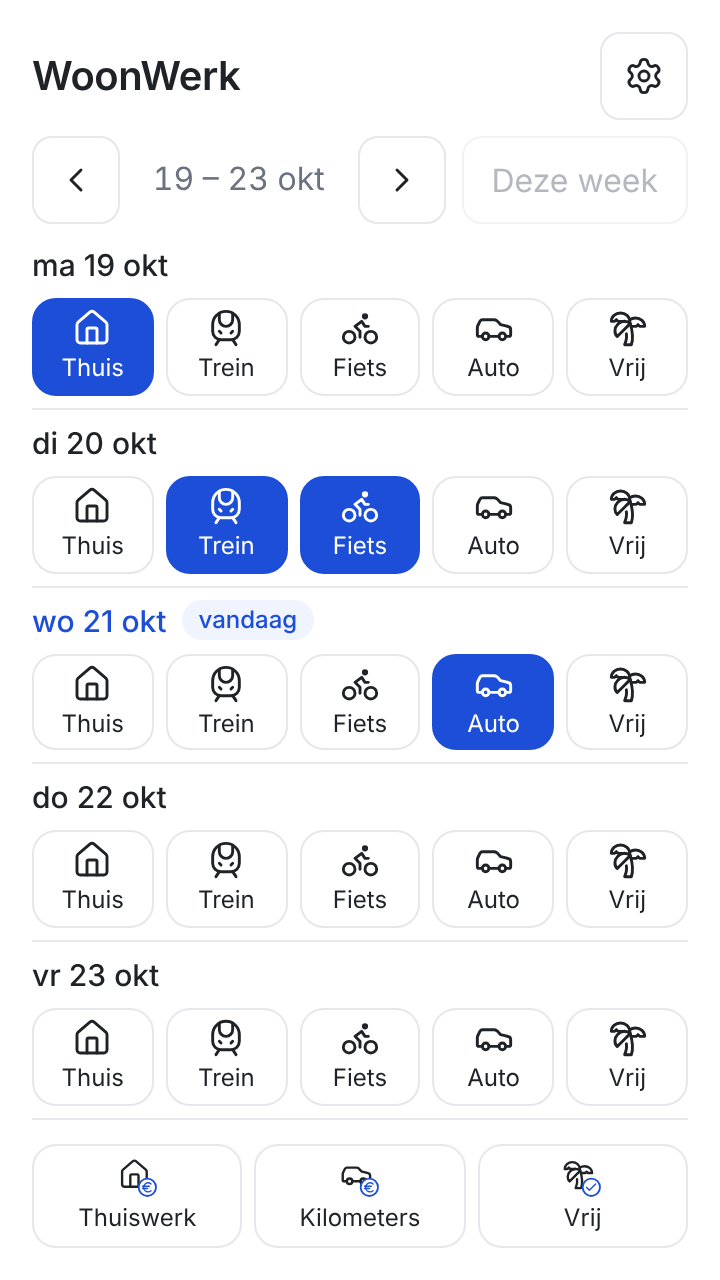
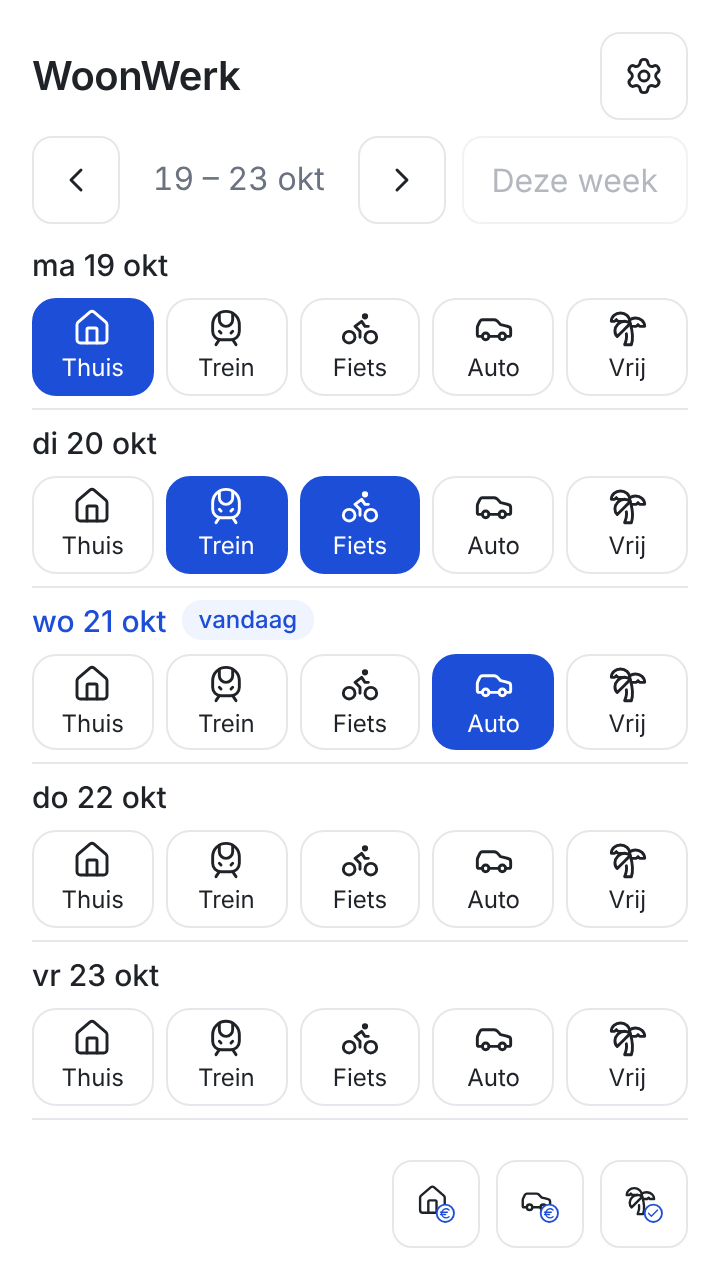
Overzichtsknoppen onderaan als iconknoppen zonder tekst, rechts uitgelijnd
Claude-Session: https://claude.ai/code/session_01UzDWWvbszkEX6CBYu3XqNS

diff --git a/src/App.tsx b/src/App.tsx
@@ -17,9 +17,9 @@ import {
 } from './storage'
 
 const OVERVIEWS = {
-  thuis: { title: 'Overzicht thuiswerkvergoeding', short: 'Thuiswerk' },
-  auto: { title: 'Overzicht kilometervergoeding', short: 'Kilometers' },
-  vrij: { title: 'Overzicht vrije dagen', short: 'Vrij' },
+  thuis: { title: 'Overzicht thuiswerkvergoeding' },
+  auto: { title: 'Overzicht kilometervergoeding' },
+  vrij: { title: 'Overzicht vrije dagen' },
 } as const
 
 const SWIPE_MIN_DISTANCE = 50
@@ -217,11 +217,10 @@ export default function App() {
         )}
         <nav className="overview-bar" aria-label="Overzichten">
           {overviewModes.map((mode) => {
-            const { title, short } = OVERVIEWS[mode]
+            const { title } = OVERVIEWS[mode]
             return (
-              <button key={mode} type="button" className="overview-button" aria-label={title} onClick={() => setScreen(mode)}>
+              <button key={mode} type="button" className="icon-button" aria-label={title} onClick={() => setScreen(mode)}>
                 <BadgeIcon Icon={MODE_INFO[mode].Icon} Badge={mode === 'vrij' ? Check : undefined} />
-                <span>{short}</span>
               </button>
             )
           })}

diff --git a/src/index.css b/src/index.css
@@ -182,7 +182,6 @@ h1 {
   .mode:not(.selected):hover,
   .icon-button:hover,
   .today-button:not(:disabled):hover,
-  .overview-button:hover,
   .wide-button:hover {
     border-color: #c7cbd1;
   }
@@ -338,23 +337,10 @@ h1.wrap {
 }
 
 .overview-bar {
-  display: grid;
-  grid-auto-flow: column;
-  grid-auto-columns: minmax(0, 1fr);
-  gap: 6px;
-}
-
-.overview-button {
+  /* Dezelfde iconknoppen als het tandwiel, rechts uitgelijnd. */
   display: flex;
-  flex-direction: column;
-  align-items: center;
-  justify-content: center;
-  gap: 2px;
-  min-height: 52px;
-  padding: 4px 2px;
-  border: 1px solid var(--line);
-  border-radius: 12px;
-  font-size: 0.75rem;
+  justify-content: flex-end;
+  gap: 8px;
 }
 
 /* Vraag om de app te installeren, net boven de knoppen naar de overzichten. */

diff --git a/src/App.test.tsx b/src/App.test.tsx
@@ -241,7 +241,7 @@ describe('AC32: overzichtsknoppen onderaan', () => {
     const user = userEvent.setup()
     render(<App />)
     const bar = screen.getByRole('navigation', { name: 'Overzichten' })
-    expect(within(bar).getAllByRole('button').map((b) => b.textContent)).toEqual(['Thuiswerk', 'Kilometers', 'Vrij'])
+    expect(within(bar).getAllByRole('button').map((b) => b.textContent)).toEqual(['', '', ''])
     expect(within(bar).getAllByRole('button').map((b) => b.getAttribute('aria-label'))).toEqual([
       'Overzicht thuiswerkvergoeding',
       'Overzicht kilometervergoeding',

diff --git a/SPEC.md b/SPEC.md
@@ -46,7 +46,7 @@ Eén persoon (Greco) die de app op zijn telefoon gebruikt, via een snelkoppeling
 | F8 | Installeren | De app is een progressive web app (PWA): Chrome biedt "App installeren" aan, waarna de app als gewone app tussen je apps staat en schermvullend opent, zonder adresbalk. |
 | F18 | Vraag om te installeren | Open je de app in de browser terwijl hij nog niet op de telefoon is geïnstalleerd, dan staat onderaan het scherm, net boven de overzichtsknoppen (F21), een rustige balk "WoonWerk als app installeren?" met de knoppen **Niet nu** en **Installeren** (gevuld met de accentkleur). De rand van de balk heeft dezelfde accentkleur (diep blauw) als de knop Installeren. De balk blijft onderaan in beeld en ligt over de onderkant van de week; vrijdag zie je helemaal door een stukje te scrollen. "Installeren" opent het installatievenster van Chrome zelf. De balk verschijnt alleen als Chrome meldt dat de app installeerbaar is en nog niet is geïnstalleerd; in de geïnstalleerde app zelf (schermvullend) verschijnt hij nooit. Na installeren verdwijnt de balk. Kies je "Niet nu" of sluit je het venster van Chrome zonder te installeren, dan komt de vraag 30 dagen niet terug (dat wordt onthouden op de telefoon). De balk staat alleen op het weekscherm, niet in de instellingen of overzichten. |
 | F19 | Installatievraag weer tonen | Heb je "Niet nu" gekozen, dan staat onderaan de instellingen het onderdeel "App installeren" met de datum waarop de vraag vanzelf terugkomt en de knop **Vraag weer tonen**. Die knop vergeet "Niet nu", zodat de balk weer op het weekscherm staat zodra Chrome de app installeerbaar vindt. Daarna staat er de melding "De vraag om de app op je telefoon te installeren staat onderaan in het startscherm als de app geïnstalleerd kan worden." In de geïnstalleerde app, of als je geen "Niet nu" koos, staat dit onderdeel er niet. Je registraties blijven gewoon bewaard. |
-| F21 | Overzichtsknoppen onderaan | Onderaan het weekscherm staat een balk met de knoppen naar de overzichten, naast elkaar en samen de hele breedte: thuiswerkvergoeding, kilometervergoeding (alleen als Auto aan staat) en vrije dagen (alleen als Vrij aan staat). Elke knop toont het icoon met rondje (zie Ontwerp) met een kort woord eronder: "Thuiswerk", "Kilometers" en "Vrij". De balk blijft onderaan in beeld. De tandwielknop voor de instellingen blijft rechtsboven naast de titel. In de instellingen en overzichten staat de balk niet. |
+| F21 | Overzichtsknoppen onderaan | Onderaan het weekscherm staat een balk met de knoppen naar de overzichten, naast elkaar: thuiswerkvergoeding, kilometervergoeding (alleen als Auto aan staat) en vrije dagen (alleen als Vrij aan staat). Het zijn dezelfde knoppen als eerst rechtsboven: alleen het icoon met rondje (zie Ontwerp), zonder tekst, met een vaste grootte gelijk aan de tandwielknop, rechts uitgelijnd zodat de rechterknop precies onder het tandwiel staat. Zo zijn ze goed te onderscheiden van de knoppen bij de dagen. De balk blijft onderaan in beeld. De tandwielknop voor de instellingen blijft rechtsboven naast de titel. In de instellingen en overzichten staat de balk niet. |
 | F13 | Offline gebruiken | Na de eerste keer openen werkt de app ook zonder internetverbinding: openen, kiezen, bladeren, instellingen en backups. |
 | F14 | Updates | Staat er een nieuwe versie online, dan haalt de app die op de achtergrond op zodra er internet is. De nieuwe versie is actief de volgende keer dat je de app opent. |
 
@@ -85,7 +85,7 @@ Deze criteria worden ook als automatische tests in de code opgenomen.
 - **AC27 (F18)** Na "Niet nu", of na het sluiten van het installatievenster zonder te installeren, is de vraag weg en komt hij ook na opnieuw openen niet terug. Na 30 dagen verschijnt hij weer als de app dan nog steeds niet is geïnstalleerd.
 - **AC28 (F19)** Na "Niet nu" op 20 oktober staat in de instellingen dat de vraag terugkomt op 19 november. Na "Vraag weer tonen" verdwijnt dat onderdeel, en terug op het weekscherm staat de vraag er weer. Zonder "Niet nu", of in de geïnstalleerde app, staat het onderdeel niet in de instellingen.
 - **AC29 (F20)** Het overzicht vrije dagen toont dezelfde periode en kolommen als AC20, met alleen de dagen waarop Vrij is gekozen, en het palmboom-icoon bovenaan. "Terug" brengt je naar dezelfde week. Zet ik Vrij uit, dan is de knop voor dit overzicht weg.
-- **AC32 (F21)** Onderaan het weekscherm staan de knoppen "Thuiswerk", "Kilometers" en "Vrij" naar de drie overzichten; rechtsboven staat alleen de tandwielknop. In de instellingen staat de balk niet.
+- **AC32 (F21)** Onderaan het weekscherm staan rechts drie iconknoppen zonder tekst naar de drie overzichten; rechtsboven staat alleen de tandwielknop. In de instellingen staat de balk niet.
 - **AC33 (F7, F12)** Dagen die met een eerdere versie van de app zijn vastgelegd (één keuze per dag) staan er na de update nog precies zo. Een backup van een eerdere versie (versie 1) kan nog steeds worden ingelezen.
 - **AC12 (ontwerp)** Op een scherm van 360 bij 640 pixels (een Samsung S25 is 360 pixels breed; 640 pixels hoog laat ruimte voor adresbalk en systeembalken) zijn de titel, de weeknavigatie, alle vijf dagen met hun knoppen en de balk met overzichtsknoppen volledig te zien zonder te scrollen.
 
